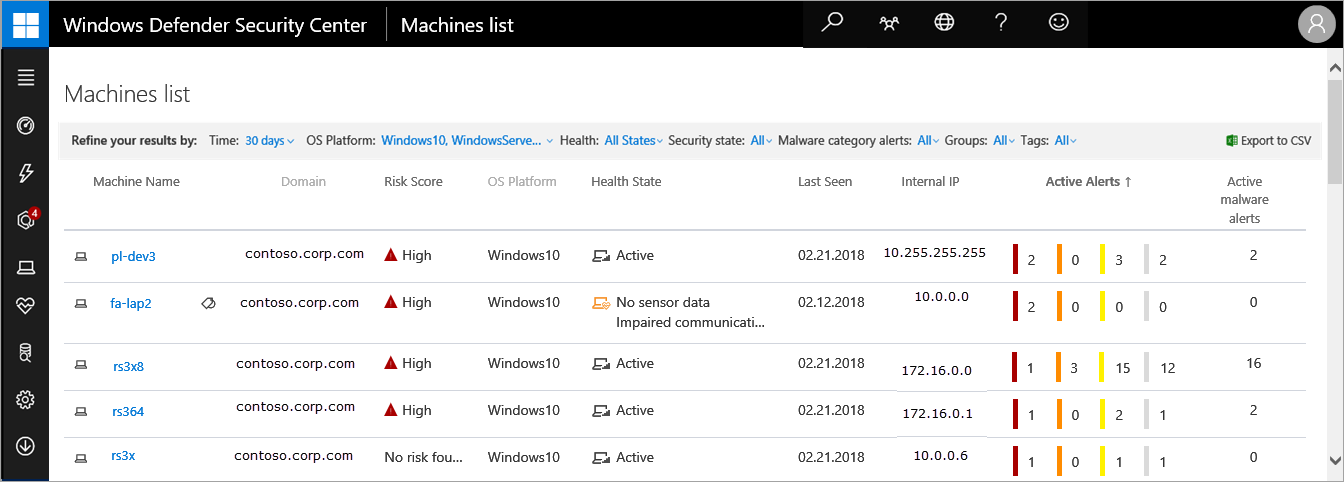
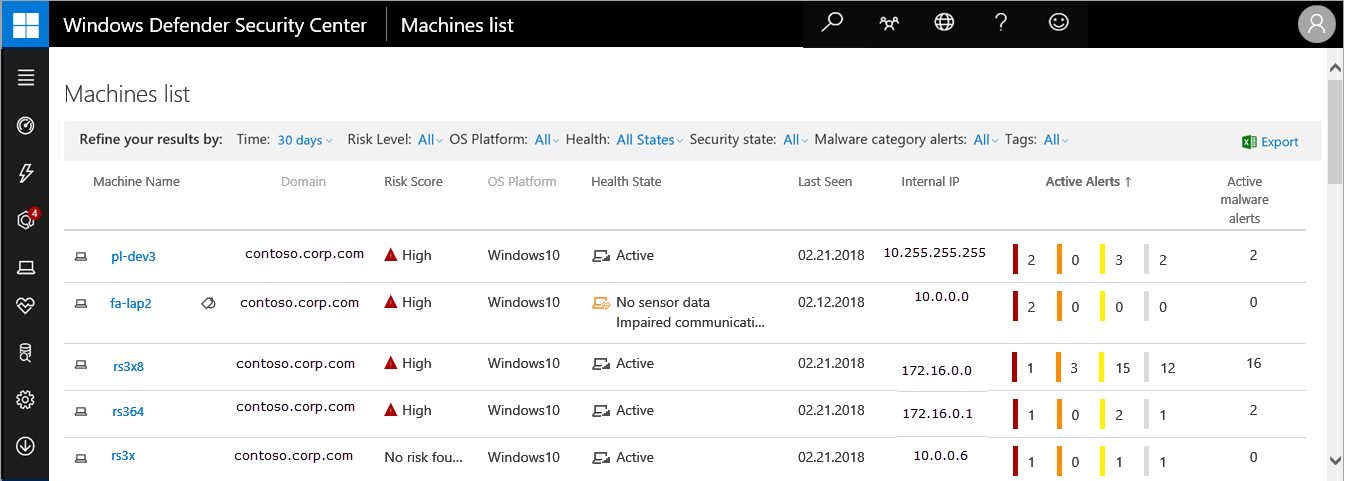
add machine risk in investigate machines

diff --git a/windows/security/threat-protection/windows-defender-atp/investigate-machines-windows-defender-advanced-threat-protection.md b/windows/security/threat-protection/windows-defender-atp/investigate-machines-windows-defender-advanced-threat-protection.md
@@ -36,27 +36,22 @@ You can click on affected machines whenever you see them in the portal to open a
 - Any IP address or domain details view
 
 When you investigate a specific machine, you'll see:
-- Machine details, Azure Advanced Threat Protection (Azure ATP) alerts, Logged on users, and Machine Reporting
+- Machine details, Logged on users, Machine risk, and Machine Reporting
 - Alerts related to this machine
 - Machine timeline
 
 ![Image of machine view](images/atp-azure-atp-machine.png)
 
-The machine details, Azure ATP alerts, total logged on users, and machine reporting sections display various attributes about the machine.
+The machine details, logged on users, machine risk, and machine reporting sections display various attributes about the machine.
 
-
+**Machine details**</br>
 The machine details tile provides information such as the domain and OS of the machine. If there's an investigation package available on the machine, you'll see a link that allows you to download the package.
 
 For more information on how to take action on a machine, see [Take response action on a machine](respond-machine-alerts-windows-defender-advanced-threat-protection.md).
 
-If you have enabled the Azure ATP feature and there are alerts related to the machine, you can click on the link that will take you to the Azure ATP page where more information about the alerts are provided. The Azure ATP tile also provides details such as the last Azure Active Directory site information and total domain group memberships.
 
->[!NOTE]
->You’ll need to enable the integration between Windows Defender ATP and Azure Advanced Threat Protection to use this feature.
-
-For more information on how to enable the Azure ATP integration, see [Turn on advanced features](advanced-features-windows-defender-advanced-threat-protection.md).
-
-Clicking on the number of total logged on users in the Logged on users tile opens the Users Details pane that displays the following information for logged on users in the past 30 days:
+**Logged on users**</br>
+Clicking on the logged on users in the Logged on users tile opens the Users Details pane that displays the following information for logged on users in the past 30 days:
 
 -	Interactive and remote interactive logins
 -	Network, batch, and system logins
@@ -66,6 +61,19 @@ Clicking on the number of total logged on users in the Logged on users tile open
 You'll also see details such as logon types for each user account, the user group, and when the account logon occurred.
 
  For more information, see [Investigate user entities](investigate-user-windows-defender-advanced-threat-protection.md).
+
+**Machine risk**</br>
+The Machine risk tile shows the overall risk assesment of a machine. A machine's risk level is determined using the number of active alerts and their severity levels. You can influence a machine's risk level by resolving associated alerts manually or automatically. It also gives a quick indicator of the active threats that machines could be exposed to. 
+
+If you have enabled the Azure ATP feature and there are alerts related to the machine, you can click on the link that will take you to the Azure ATP page where more information about the alerts are provided. The Azure ATP tile also provides details such as the last Azure Active Directory site information and total domain group memberships.
+
+>[!NOTE]
+>You’ll need to enable the integration between Windows Defender ATP and Azure Advanced Threat Protection to use this feature.
+
+For more information on how to enable the Azure ATP integration, see [Turn on advanced features](advanced-features-windows-defender-advanced-threat-protection.md).
+
+**Machine reporting**</br>
+Provides the last internal IP and exteral IP of the machine. It also shows when the machine was first and last seen reporting to the service. 
 
 ## Manage machine group and tags
 Machine group and tags support proper mapping of the network, enabling you to attach different tags to machines to capture context and to enable dynamic groups creation as part of an incident. 

diff --git a/windows/security/threat-protection/windows-defender-atp/machines-view-overview-windows-defender-advanced-threat-protection.md b/windows/security/threat-protection/windows-defender-atp/machines-view-overview-windows-defender-advanced-threat-protection.md
@@ -54,6 +54,10 @@ You can use the following filters to limit the list of machines displayed during
 - 30 days
 - 6 months
 
+**Risk level**</br>
+Machine risk levels are quick indicators of the active threats that machines could be exposed to. A machine's risk level is determined using the number of active alerts and their severity levels. You can influence a machine's risk level by resolving associated alerts manually or automatically.
+
+
 **OS Platform**</br>
 - Windows 10
 - Windows Server 2012 R2
@@ -98,7 +102,8 @@ You can filter the list based on the grouping and tagging that you've added to i
 ## Export machine list to CSV
 You can  download a full list of all the machines in your organization, in CSV format. Click the **Export to CSV** button to download the entire list as a CSV file.
 
-**Note**: Exporting the list depends on the number of machines in your organization. It might take a significant amount of time to download, depending on how large your organization is.
+>[NOTE]
+> Exporting the list depends on the number of machines in your organization. It might take a significant amount of time to download, depending on how large your organization is.
 Exporting the list in CSV format displays the data in an unfiltered manner. The CSV file will include all machines in the organization, regardless of any filtering applied in the view itself.
 
 ## Sort the Machines list
